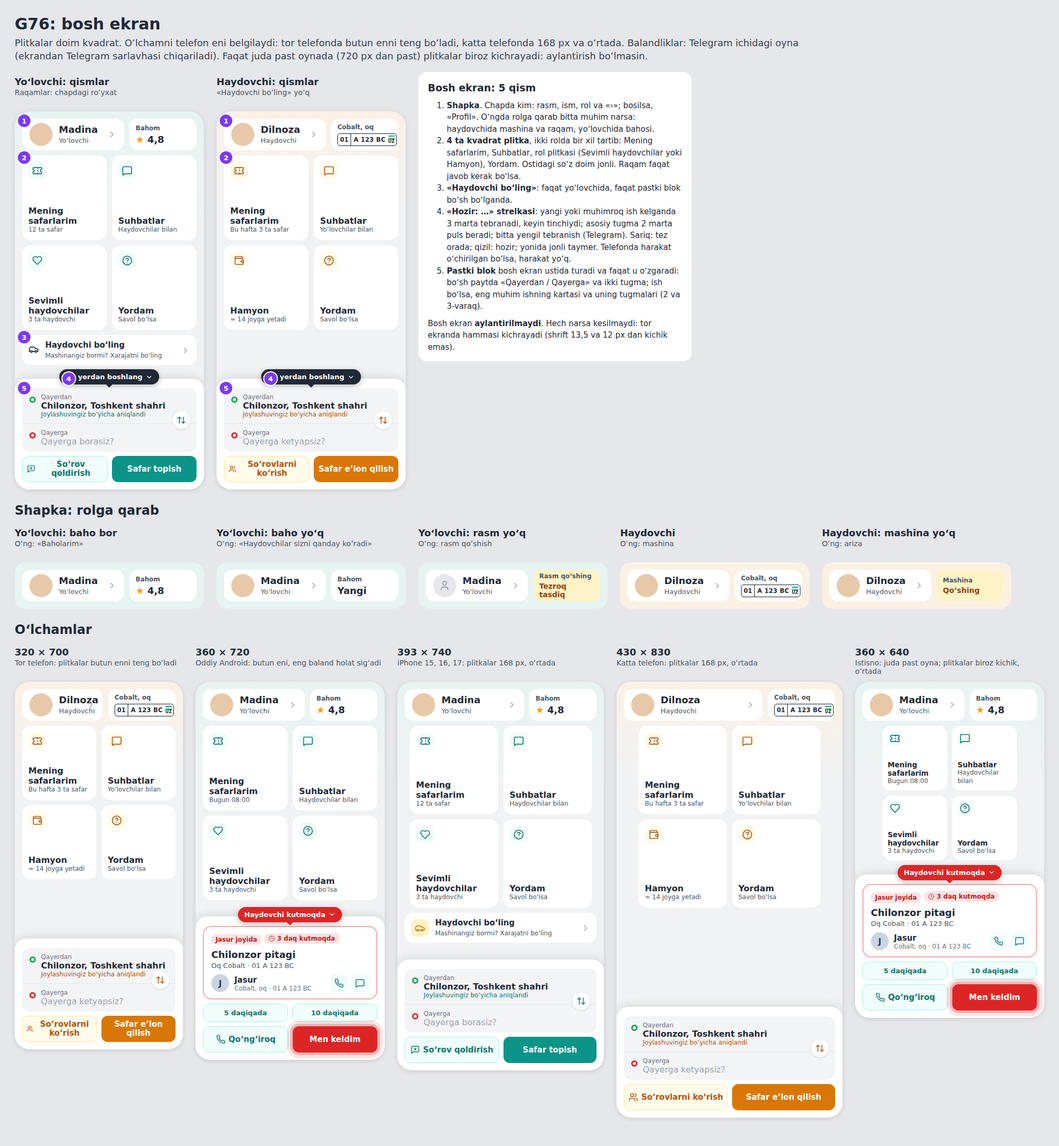
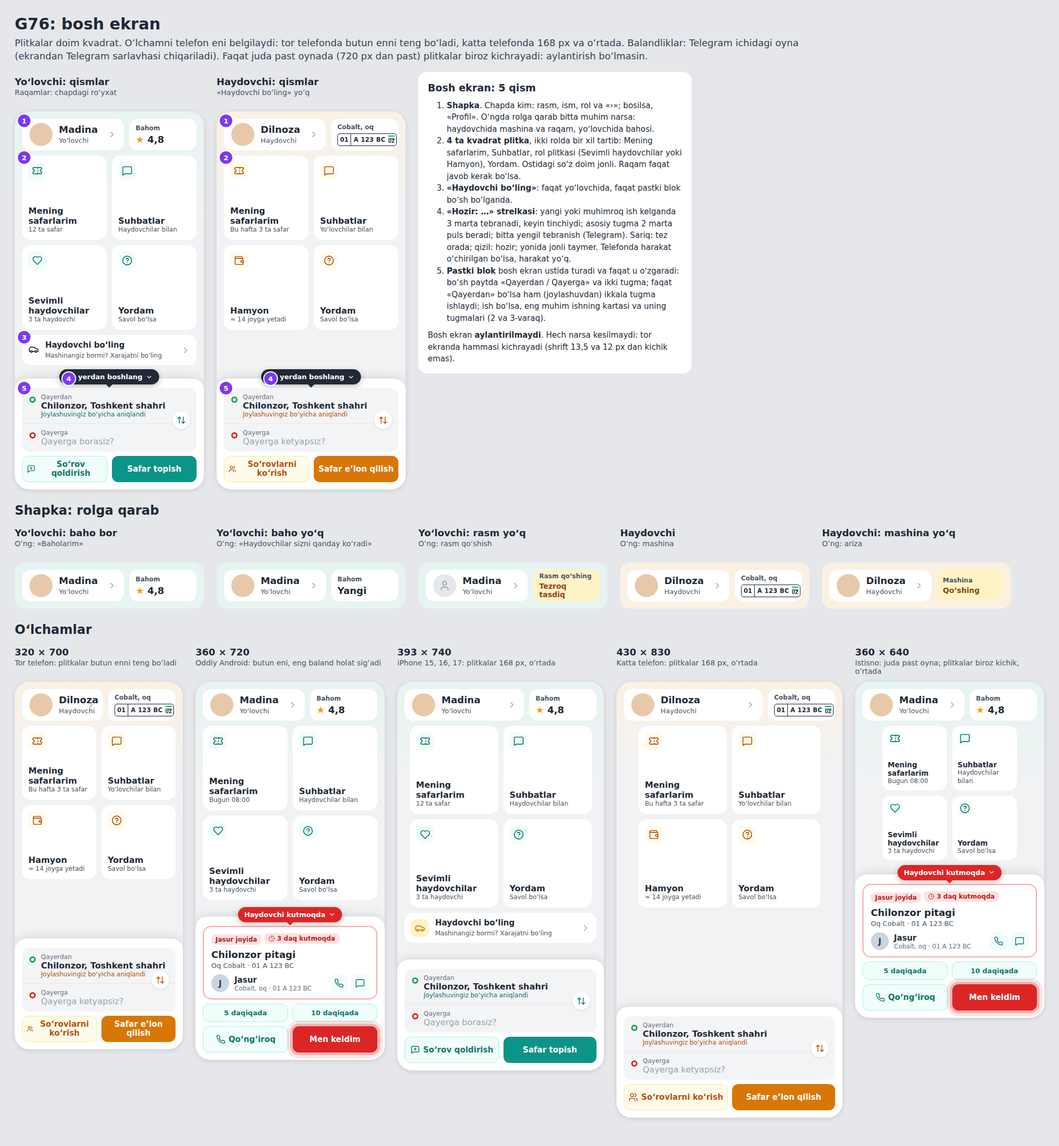
G76: mockups approved; the goal file; both dock buttons work with Qayerdan alone
Claude-Session: https://claude.ai/code/session_017FSsNw3bjZgBbKY1ueaesh

Changed region(s): [[0.4, 0.2493, 0.6462, 0.3428]]

diff --git a/docs/goals/g76/src/1-home.html b/docs/goals/g76/src/1-home.html
@@ -55,7 +55,7 @@ h1{font-size:30px}.sub{font-size:18px;color:#374151;margin:6px 0 18px;max-width:
 <li><b>4 ta kvadrat plitka</b>, ikki rolda bir xil tartib: Mening safarlarim, Suhbatlar, rol plitkasi (Sevimli haydovchilar yoki Hamyon), Yordam. Ostidagi soʻz doim jonli. Raqam faqat javob kerak boʻlsa.</li>
 <li><b>«Haydovchi boʻling»</b>: faqat yoʻlovchida, faqat pastki blok boʻsh boʻlganda.</li>
 <li><b>«Hozir: …» strelkasi</b>: yangi yoki muhimroq ish kelganda 3 marta tebranadi, keyin tinchiydi; asosiy tugma 2 marta puls beradi; bitta yengil tebranish (Telegram). Sariq: tez orada; qizil: hozir; yonida jonli taymer. Telefonda harakat oʻchirilgan boʻlsa, harakat yoʻq.</li>
-<li><b>Pastki blok</b> bosh ekran ustida turadi va faqat u oʻzgaradi: boʻsh paytda «Qayerdan / Qayerga» va ikki tugma; ish boʻlsa, eng muhim ishning kartasi va uning tugmalari (2 va 3-varaq).</li>
+<li><b>Pastki blok</b> bosh ekran ustida turadi va faqat u oʻzgaradi: boʻsh paytda «Qayerdan / Qayerga» va ikki tugma; faqat «Qayerdan» boʻlsa ham (joylashuvdan) ikkala tugma ishlaydi; ish boʻlsa, eng muhim ishning kartasi va uning tugmalari (2 va 3-varaq).</li>
 </ol><p style="margin-top:10px">Bosh ekran <b>aylantirilmaydi</b>. Hech narsa kesilmaydi: tor ekranda hammasi kichrayadi (shrift 13,5 va 12 px dan kichik emas).</p></div></div></div><h1 style="font-size:24px;margin:6px 0 10px">Shapka: rolga qarab</h1><div class="row" style="margin-bottom:26px"><div class="col" style="width:360px"><div class="lab">Yoʻlovchi: baho bor<small>Oʻng: «Baholarim»</small></div><div class="" style="width:360px;padding:14px;border-radius:20px;background:#E6F4F2"><div class="hd"><div class="me"><div class="face"></div><div style="min-width:0"><b>Madina</b><span>Yoʻlovchi</span></div><i class="chv"><svg width="18" height="18" viewBox="0 0 24 24" fill="none" stroke="currentColor" stroke-width="2" stroke-linecap="round" stroke-linejoin="round"><path d="m9 18 6-6-6-6"/></svg></i></div><div class="pc "><small>Bahom</small><b><span style="color:#F59E0B">★</span> 4,8</b></div></div></div></div><div class="col" style="width:360px"><div class="lab">Yoʻlovchi: baho yoʻq<small>Oʻng: «Haydovchilar sizni qanday koʻradi»</small></div><div class="" style="width:360px;padding:14px;border-radius:20px;background:#E6F4F2"><div class="hd"><div class="me"><div class="face"></div><div style="min-width:0"><b>Madina</b><span>Yoʻlovchi</span></div><i class="chv"><svg width="18" height="18" viewBox="0 0 24 24" fill="none" stroke="currentColor" stroke-width="2" stroke-linecap="round" stroke-linejoin="round"><path d="m9 18 6-6-6-6"/></svg></i></div><div class="pc "><small>Bahom</small><b>Yangi</b></div></div></div></div><div class="col" style="width:360px"><div class="lab">Yoʻlovchi: rasm yoʻq<small>Oʻng: rasm qoʻshish</small></div><div class="" style="width:360px;padding:14px;border-radius:20px;background:#E6F4F2"><div class="hd"><div class="me"><div class="face" style="background:#E5E7EB;display:flex;align-items:center;justify-content:center;color:#9CA3AF"><svg width="22" height="22" viewBox="0 0 24 24" fill="none" stroke="currentColor" stroke-width="2" stroke-linecap="round" stroke-linejoin="round"><path d="M19 21v-2a4 4 0 0 0-4-4H9a4 4 0 0 0-4 4v2"/><circle cx="12" cy="7" r="4"/></svg></div><div style="min-width:0"><b>Madina</b><span>Yoʻlovchi</span></div><i class="chv"><svg width="18" height="18" viewBox="0 0 24 24" fill="none" stroke="currentColor" stroke-width="2" stroke-linecap="round" stroke-linejoin="round"><path d="m9 18 6-6-6-6"/></svg></i></div><div class="pc warn"><small>Rasm qoʻshing</small><b>Tezroq tasdiq</b></div></div></div></div><div class="col" style="width:360px"><div class="lab">Haydovchi<small>Oʻng: mashina</small></div><div class="drv" style="width:360px;padding:14px;border-radius:20px;background:#FBF1E3"><div class="hd"><div class="me"><div class="face"></div><div style="min-width:0"><b>Dilnoza</b><span>Haydovchi</span></div><i class="chv"><svg width="18" height="18" viewBox="0 0 24 24" fill="none" stroke="currentColor" stroke-width="2" stroke-linecap="round" stroke-linejoin="round"><path d="m9 18 6-6-6-6"/></svg></i></div><div class="pc "><small>Cobalt, oq</small><b><span class="plate"><i>01</i><em>A 123 BC</em><u><s></s>UZ</u></span></b></div></div></div></div><div class="col" style="width:360px"><div class="lab">Haydovchi: mashina yoʻq<small>Oʻng: ariza</small></div><div class="drv" style="width:360px;padding:14px;border-radius:20px;background:#FBF1E3"><div class="hd"><div class="me"><div class="face"></div><div style="min-width:0"><b>Dilnoza</b><span>Haydovchi</span></div><i class="chv"><svg width="18" height="18" viewBox="0 0 24 24" fill="none" stroke="currentColor" stroke-width="2" stroke-linecap="round" stroke-linejoin="round"><path d="m9 18 6-6-6-6"/></svg></i></div><div class="pc warn"><small>Mashina</small><b>Qoʻshing</b></div></div></div></div></div><h1 style="font-size:24px;margin:6px 0 10px">Oʻlchamlar</h1><div class="row" style="margin-bottom:26px"><div class="col" style="width:320px"><div class="lab">320 × 700<small>Tor telefon: plitkalar butun enni teng boʻladi</small></div><div class="ph drv" style="width:320px;height:700px"><div class="top"><div class="hd"><div class="me"><div class="face"></div><div style="min-width:0"><b>Dilnoza</b><span>Haydovchi</span></div><i class="chv"><svg width="18" height="18" viewBox="0 0 24 24" fill="none" stroke="currentColor" stroke-width="2" stroke-linecap="round" stroke-linejoin="round"><path d="m9 18 6-6-6-6"/></svg></i></div><div class="pc "><small>Cobalt, oq</small><b><span class="plate"><i>01</i><em>A 123 BC</em><u><s></s>UZ</u></span></b></div></div><div class="tiles"><div class="tile "><i><svg width="20" height="20" viewBox="0 0 24 24" fill="none" stroke="currentColor" stroke-width="2" stroke-linecap="round" stroke-linejoin="round"><path d="M2 9a3 3 0 0 1 0 6v2a2 2 0 0 0 2 2h16a2 2 0 0 0 2-2v-2a3 3 0 0 1 0-6V7a2 2 0 0 0-2-2H4a2 2 0 0 0-2 2Z"/><path d="M13 5v2M13 17v2M13 11v2"/></svg></i><b>Mening safarlarim</b><span>Bu hafta 3 ta safar</span></div><div class="tile "><i><svg width="20" height="20" viewBox="0 0 24 24" fill="none" stroke="currentColor" stroke-width="2" stroke-linecap="round" stroke-linejoin="round"><path d="M22 17a2 2 0 0 1-2 2H6.8a2 2 0 0 0-1.4.6l-2.2 2.2A.7.7 0 0 1 2 21.3V5a2 2 0 0 1 2-2h16a2 2 0 0 1 2 2z"/></svg></i><b>Suhbatlar</b><span>Yoʻlovchilar bilan</span></div><div class="tile "><i><svg width="20" height="20" viewBox="0 0 24 24" fill="none" stroke="currentColor" stroke-width="2" stroke-linecap="round" stroke-linejoin="round"><path d="M19 7V4a1 1 0 0 0-1-1H5a2 2 0 0 0 0 4h15a1 1 0 0 1 1 1v4h-3a2 2 0 0 0 0 4h3a1 1 0 0 0 1-1v-2a1 1 0 0 0-1-1"/><path d="M3 5v14a2 2 0 0 0 2 2h15a1 1 0 0 0 1-1v-4"/></svg></i><b>Hamyon</b><span>≈ 14 joyga yetadi</span></div><div class="tile "><i><svg width="20" height="20" viewBox="0 0 24 24" fill="none" stroke="currentColor" stroke-width="2" stroke-linecap="round" stroke-linejoin="round"><circle cx="12" cy="12" r="10"/><path d="M9.1 9a3 3 0 0 1 5.8 1c0 2-3 3-3 3"/><path d="M12 17h.01"/></svg></i><b>Yordam</b><span>Savol boʻlsa</span></div></div></div><div class="dock"><div class="route"><div class="end"><span class="dot"></span><div><small>Qayerdan</small><b>Chilonzor, Toshkent shahri</b><em>Joylashuvingiz boʻyicha aniqlandi</em></div></div><div class="end"><span class="dot to"></span><div><small>Qayerga</small><b class="ph-t">Qayerga ketyapsiz?</b></div></div><div class="swap"><svg width="18" height="18" viewBox="0 0 24 24" fill="none" stroke="currentColor" stroke-width="2" stroke-linecap="round" stroke-linejoin="round"><path d="m21 16-4 4-4-4"/><path d="M17 20V4"/><path d="m3 8 4-4 4 4"/><path d="M7 4v16"/></svg></div></div><div class="btns"><div class="btn two"><svg width="18" height="18" viewBox="0 0 24 24" fill="none" stroke="currentColor" stroke-width="2" stroke-linecap="round" stroke-linejoin="round"><path d="M16 21v-2a4 4 0 0 0-4-4H6a4 4 0 0 0-4 4v2"/><circle cx="9" cy="7" r="4"/><path d="M22 21v-2a4 4 0 0 0-3-3.9"/><path d="M16 3.1a4 4 0 0 1 0 7.8"/></svg>Soʻrovlarni koʻrish</div><div class="btn ">Safar eʼlon qilish</div></div></div></div></div><div class="col" style="width:360px"><div class="lab">360 × 720<small>Oddiy Android: butun eni, eng baland holat sigʻadi</small></div><div class="ph " style="width:360px;height:720px"><div class="top"><div class="hd"><div class="me"><div class="face"></div><div style="min-width:0"><b>Madina</b><span>Yoʻlovchi</span></div><i class="chv"><svg width="18" height="18" viewBox="0 0 24 24" fill="none" stroke="currentColor" stroke-width="2" stroke-linecap="round" stroke-linejoin="round"><path d="m9 18 6-6-6-6"/></svg></i></div><div class="pc "><small>Bahom</small><b><span style="color:#F59E0B">★</span> 4,8</b></div></div><div class="tiles"><div class="tile "><i><svg width="20" height="20" viewBox="0 0 24 24" fill="none" stroke="currentColor" stroke-width="2" stroke-linecap="round" stroke-linejoin="round"><path d="M2 9a3 3 0 0 1 0 6v2a2 2 0 0 0 2 2h16a2 2 0 0 0 2-2v-2a3 3 0 0 1 0-6V7a2 2 0 0 0-2-2H4a2 2 0 0 0-2 2Z"/><path d="M13 5v2M13 17v2M13 11v2"/></svg></i><b>Mening safarlarim</b><span>Bugun 08:00</span></div><div class="tile "><i><svg width="20" height="20" viewBox="0 0 24 24" fill="none" stroke="currentColor" stroke-width="2" stroke-linecap="round" stroke-linejoin="round"><path d="M22 17a2 2 0 0 1-2 2H6.8a2 2 0 0 0-1.4.6l-2.2 2.2A.7.7 0 0 1 2 21.3V5a2 2 0 0 1 2-2h16a2 2 0 0 1 2 2z"/></svg></i><b>Suhbatlar</b><span>Haydovchilar bilan</span></div><div class="tile "><i><svg width="20" height="20" viewBox="0 0 24 24" fill="none" stroke="currentColor" stroke-width="2" stroke-linecap="round" stroke-linejoin="round"><path d="M19 14c1.49-1.46 3-3.21 3-5.5A5.5 5.5 0 0 0 16.5 3c-1.76 0-3 .5-4.5 2-1.5-1.5-2.74-2-4.5-2A5.5 5.5 0 0 0 2 8.5c0 2.3 1.5 4.05 3 5.5l7 7Z"/></svg></i><b>Sevimli haydovchilar</b><span>3 ta haydovchi</span></div><div class="tile "><i><svg width="20" height="20" viewBox="0 0 24 24" fill="none" stroke="currentColor" stroke-width="2" stroke-linecap="round" stroke-linejoin="round"><circle cx="12" cy="12" r="10"/><path d="M9.1 9a3 3 0 0 1 5.8 1c0 2-3 3-3 3"/><path d="M12 17h.01"/></svg></i><b>Yordam</b><span>Savol boʻlsa</span></div></div></div><div class="dock"><div class="cue u">Haydovchi kutmoqda <svg width="14" height="14" viewBox="0 0 24 24" fill="none" stroke="currentColor" stroke-width="2" stroke-linecap="round" stroke-linejoin="round"><path d="m6 9 6 6 6-6"/></svg></div><div class="card u"><span class="chip red">Jasur joyida</span><span class="timer u"><svg width="12" height="12" viewBox="0 0 24 24" fill="none" stroke="currentColor" stroke-width="2" stroke-linecap="round" stroke-linejoin="round"><circle cx="12" cy="12" r="10"/><path d="M12 6v6l4 2"/></svg>3 daq kutmoqda</span><h3>Chilonzor pitagi</h3><p>Oq Cobalt · 01 A 123 BC</p><div class="who"><div class="f">J</div><div><b>Jasur</b><span>Cobalt, oq · 01 A 123 BC</span></div><div class="mini"><i class=""><svg width="18" height="18" viewBox="0 0 24 24" fill="none" stroke="currentColor" stroke-width="2" stroke-linecap="round" stroke-linejoin="round"><path d="M22 16.9v3a2 2 0 0 1-2.2 2 19.8 19.8 0 0 1-8.6-3.1 19.5 19.5 0 0 1-6-6A19.8 19.8 0 0 1 2.1 4.2 2 2 0 0 1 4.1 2h3a2 2 0 0 1 2 1.7c.1 1 .4 1.9.7 2.8a2 2 0 0 1-.4 2.1L8.1 9.9a16 16 0 0 0 6 6l1.3-1.3a2 2 0 0 1 2.1-.4c.9.3 1.8.6 2.8.7a2 2 0 0 1 1.7 2z"/></svg></i><i class=""><svg width="18" height="18" viewBox="0 0 24 24" fill="none" stroke="currentColor" stroke-width="2" stroke-linecap="round" stroke-linejoin="round"><path d="M22 17a2 2 0 0 1-2 2H6.8a2 2 0 0 0-1.4.6l-2.2 2.2A.7.7 0 0 1 2 21.3V5a2 2 0 0 1 2-2h16a2 2 0 0 1 2 2z"/></svg></i></div></div></div><div class="qs"><span>5 daqiqada</span><span>10 daqiqada</span></div><div class="btns"><div class="btn two"><svg width="18" height="18" viewBox="0 0 24 24" fill="none" stroke="currentColor" stroke-width="2" stroke-linecap="round" stroke-linejoin="round"><path d="M22 16.9v3a2 2 0 0 1-2.2 2 19.8 19.8 0 0 1-8.6-3.1 19.5 19.5 0 0 1-6-6A19.8 19.8 0 0 1 2.1 4.2 2 2 0 0 1 4.1 2h3a2 2 0 0 1 2 1.7c.1 1 .4 1.9.7 2.8a2 2 0 0 1-.4 2.1L8.1 9.9a16 16 0 0 0 6 6l1.3-1.3a2 2 0 0 1 2.1-.4c.9.3 1.8.6 2.8.7a2 2 0 0 1 1.7 2z"/></svg>Qoʻngʻiroq</div><div class="btn pulse u red">Men keldim</div></div></div></div></div><div class="col" style="width:393px"><div class="lab">393 × 740<small>iPhone 15, 16, 17: plitkalar 168 px, oʻrtada</small></div><div class="ph " style="width:393px;height:740px"><div class="top"><div class="hd"><div class="me"><div class="face"></div><div style="min-width:0"><b>Madina</b><span>Yoʻlovchi</span></div><i class="chv"><svg width="18" height="18" viewBox="0 0 24 24" fill="none" stroke="currentColor" stroke-width="2" stroke-linecap="round" stroke-linejoin="round"><path d="m9 18 6-6-6-6"/></svg></i></div><div class="pc "><small>Bahom</small><b><span style="color:#F59E0B">★</span> 4,8</b></div></div><div class="tiles"><div class="tile "><i><svg width="20" height="20" viewBox="0 0 24 24" fill="none" stroke="currentColor" stroke-width="2" stroke-linecap="round" stroke-linejoin="round"><path d="M2 9a3 3 0 0 1 0 6v2a2 2 0 0 0 2 2h16a2 2 0 0 0 2-2v-2a3 3 0 0 1 0-6V7a2 2 0 0 0-2-2H4a2 2 0 0 0-2 2Z"/><path d="M13 5v2M13 17v2M13 11v2"/></svg></i><b>Mening safarlarim</b><span>12 ta safar</span></div><div class="tile "><i><svg width="20" height="20" viewBox="0 0 24 24" fill="none" stroke="currentColor" stroke-width="2" stroke-linecap="round" stroke-linejoin="round"><path d="M22 17a2 2 0 0 1-2 2H6.8a2 2 0 0 0-1.4.6l-2.2 2.2A.7.7 0 0 1 2 21.3V5a2 2 0 0 1 2-2h16a2 2 0 0 1 2 2z"/></svg></i><b>Suhbatlar</b><span>Haydovchilar bilan</span></div><div class="tile "><i><svg width="20" height="20" viewBox="0 0 24 24" fill="none" stroke="currentColor" stroke-width="2" stroke-linecap="round" stroke-linejoin="round"><path d="M19 14c1.49-1.46 3-3.21 3-5.5A5.5 5.5 0 0 0 16.5 3c-1.76 0-3 .5-4.5 2-1.5-1.5-2.74-2-4.5-2A5.5 5.5 0 0 0 2 8.5c0 2.3 1.5 4.05 3 5.5l7 7Z"/></svg></i><b>Sevimli haydovchilar</b><span>3 ta haydovchi</span></div><div class="tile "><i><svg width="20" height="20" viewBox="0 0 24 24" fill="none" stroke="currentColor" stroke-width="2" stroke-linecap="round" stroke-linejoin="round"><circle cx="12" cy="12" r="10"/><path d="M9.1 9a3 3 0 0 1 5.8 1c0 2-3 3-3 3"/><path d="M12 17h.01"/></svg></i><b>Yordam</b><span>Savol boʻlsa</span></div></div><div class="strip"><i><svg width="20" height="20" viewBox="0 0 24 24" fill="none" stroke="currentColor" stroke-width="2" stroke-linecap="round" stroke-linejoin="round"><path d="M19 17h2c.6 0 1-.4 1-1v-3c0-.9-.7-1.7-1.5-1.9C18.7 10.6 16 10 16 10s-1.3-1.4-2.2-2.3c-.5-.4-1.1-.7-1.8-.7H5c-.6 0-1.1.4-1.4.9l-1.4 2.9A3.7 3.7 0 0 0 2 12v4c0 .6.4 1 1 1h2"/><circle cx="7" cy="17" r="2"/><path d="M9 17h6"/><circle cx="17" cy="17" r="2"/></svg></i><div style="min-width:0"><b>Haydovchi boʻling</b><span>Mashinangiz bormi? Xarajatni boʻling</span></div><i class="chv"><svg width="18" height="18" viewBox="0 0 24 24" fill="none" stroke="currentColor" stroke-width="2" stroke-linecap="round" stroke-linejoin="round"><path d="m9 18 6-6-6-6"/></svg></i></div></div><div class="dock"><div class="route"><div class="end"><span class="dot"></span><div><small>Qayerdan</small><b>Chilonzor, Toshkent shahri</b><em>Joylashuvingiz boʻyicha aniqlandi</em></div></div><div class="end"><span class="dot to"></span><div><small>Qayerga</small><b class="ph-t">Qayerga borasiz?</b></div></div><div class="swap"><svg width="18" height="18" viewBox="0 0 24 24" fill="none" stroke="currentColor" stroke-width="2" stroke-linecap="round" stroke-linejoin="round"><path d="m21 16-4 4-4-4"/><path d="M17 20V4"/><path d="m3 8 4-4 4 4"/><path d="M7 4v16"/></svg></div></div><div class="btns"><div class="btn two"><svg width="18" height="18" viewBox="0 0 24 24" fill="none" stroke="currentColor" stroke-width="2" stroke-linecap="round" stroke-linejoin="round"><path d="M21 15a2 2 0 0 1-2 2H7l-4 4V5a2 2 0 0 1 2-2h14a2 2 0 0 1 2 2z"/><path d="M12 7v6M9 10h6"/></svg>Soʻrov qoldirish</div><div class="btn ">Safar topish</div></div></div></div></div><div class="col" style="width:430px"><div class="lab">430 × 830<small>Katta telefon: plitkalar 168 px, oʻrtada</small></div><div class="ph drv" style="width:430px;height:830px"><div class="top"><div class="hd"><div class="me"><div class="face"></div><div style="min-width:0"><b>Dilnoza</b><span>Haydovchi</span></div><i class="chv"><svg width="18" height="18" viewBox="0 0 24 24" fill="none" stroke="currentColor" stroke-width="2" stroke-linecap="round" stroke-linejoin="round"><path d="m9 18 6-6-6-6"/></svg></i></div><div class="pc "><small>Cobalt, oq</small><b><span class="plate"><i>01</i><em>A 123 BC</em><u><s></s>UZ</u></span></b></div></div><div class="tiles"><div class="tile "><i><svg width="20" height="20" viewBox="0 0 24 24" fill="none" stroke="currentColor" stroke-width="2" stroke-linecap="round" stroke-linejoin="round"><path d="M2 9a3 3 0 0 1 0 6v2a2 2 0 0 0 2 2h16a2 2 0 0 0 2-2v-2a3 3 0 0 1 0-6V7a2 2 0 0 0-2-2H4a2 2 0 0 0-2 2Z"/><path d="M13 5v2M13 17v2M13 11v2"/></svg></i><b>Mening safarlarim</b><span>Bu hafta 3 ta safar</span></div><div class="tile "><i><svg width="20" height="20" viewBox="0 0 24 24" fill="none" stroke="currentColor" stroke-width="2" stroke-linecap="round" stroke-linejoin="round"><path d="M22 17a2 2 0 0 1-2 2H6.8a2 2 0 0 0-1.4.6l-2.2 2.2A.7.7 0 0 1 2 21.3V5a2 2 0 0 1 2-2h16a2 2 0 0 1 2 2z"/></svg></i><b>Suhbatlar</b><span>Yoʻlovchilar bilan</span></div><div class="tile "><i><svg width="20" height="20" viewBox="0 0 24 24" fill="none" stroke="currentColor" stroke-width="2" stroke-linecap="round" stroke-linejoin="round"><path d="M19 7V4a1 1 0 0 0-1-1H5a2 2 0 0 0 0 4h15a1 1 0 0 1 1 1v4h-3a2 2 0 0 0 0 4h3a1 1 0 0 0 1-1v-2a1 1 0 0 0-1-1"/><path d="M3 5v14a2 2 0 0 0 2 2h15a1 1 0 0 0 1-1v-4"/></svg></i><b>Hamyon</b><span>≈ 14 joyga yetadi</span></div><div class="tile "><i><svg width="20" height="20" viewBox="0 0 24 24" fill="none" stroke="currentColor" stroke-width="2" stroke-linecap="round" stroke-linejoin="round"><circle cx="12" cy="12" r="10"/><path d="M9.1 9a3 3 0 0 1 5.8 1c0 2-3 3-3 3"/><path d="M12 17h.01"/></svg></i><b>Yordam</b><span>Savol boʻlsa</span></div></div></div><div class="dock"><div class="route"><div class="end"><span class="dot"></span><div><small>Qayerdan</small><b>Chilonzor, Toshkent shahri</b><em>Joylashuvingiz boʻyicha aniqlandi</em></div></div><div class="end"><span class="dot to"></span><div><small>Qayerga</small><b class="ph-t">Qayerga ketyapsiz?</b></div></div><div class="swap"><svg width="18" height="18" viewBox="0 0 24 24" fill="none" stroke="currentColor" stroke-width="2" stroke-linecap="round" stroke-linejoin="round"><path d="m21 16-4 4-4-4"/><path d="M17 20V4"/><path d="m3 8 4-4 4 4"/><path d="M7 4v16"/></svg></div></div><div class="btns"><div class="btn two"><svg width="18" height="18" viewBox="0 0 24 24" fill="none" stroke="currentColor" stroke-width="2" stroke-linecap="round" stroke-linejoin="round"><path d="M16 21v-2a4 4 0 0 0-4-4H6a4 4 0 0 0-4 4v2"/><circle cx="9" cy="7" r="4"/><path d="M22 21v-2a4 4 0 0 0-3-3.9"/><path d="M16 3.1a4 4 0 0 1 0 7.8"/></svg>Soʻrovlarni koʻrish</div><div class="btn ">Safar eʼlon qilish</div></div></div></div></div><div class="col" style="width:360px"><div class="lab">360 × 640<small>Istisno: juda past oyna; plitkalar biroz kichik, oʻrtada</small></div><div class="ph " style="width:360px;height:640px"><div class="top"><div class="hd"><div class="me"><div class="face"></div><div style="min-width:0"><b>Madina</b><span>Yoʻlovchi</span></div><i class="chv"><svg width="18" height="18" viewBox="0 0 24 24" fill="none" stroke="currentColor" stroke-width="2" stroke-linecap="round" stroke-linejoin="round"><path d="m9 18 6-6-6-6"/></svg></i></div><div class="pc "><small>Bahom</small><b><span style="color:#F59E0B">★</span> 4,8</b></div></div><div class="tiles"><div class="tile "><i><svg width="20" height="20" viewBox="0 0 24 24" fill="none" stroke="currentColor" stroke-width="2" stroke-linecap="round" stroke-linejoin="round"><path d="M2 9a3 3 0 0 1 0 6v2a2 2 0 0 0 2 2h16a2 2 0 0 0 2-2v-2a3 3 0 0 1 0-6V7a2 2 0 0 0-2-2H4a2 2 0 0 0-2 2Z"/><path d="M13 5v2M13 17v2M13 11v2"/></svg></i><b>Mening safarlarim</b><span>Bugun 08:00</span></div><div class="tile "><i><svg width="20" height="20" viewBox="0 0 24 24" fill="none" stroke="currentColor" stroke-width="2" stroke-linecap="round" stroke-linejoin="round"><path d="M22 17a2 2 0 0 1-2 2H6.8a2 2 0 0 0-1.4.6l-2.2 2.2A.7.7 0 0 1 2 21.3V5a2 2 0 0 1 2-2h16a2 2 0 0 1 2 2z"/></svg></i><b>Suhbatlar</b><span>Haydovchilar bilan</span></div><div class="tile "><i><svg width="20" height="20" viewBox="0 0 24 24" fill="none" stroke="currentColor" stroke-width="2" stroke-linecap="round" stroke-linejoin="round"><path d="M19 14c1.49-1.46 3-3.21 3-5.5A5.5 5.5 0 0 0 16.5 3c-1.76 0-3 .5-4.5 2-1.5-1.5-2.74-2-4.5-2A5.5 5.5 0 0 0 2 8.5c0 2.3 1.5 4.05 3 5.5l7 7Z"/></svg></i><b>Sevimli haydovchilar</b><span>3 ta haydovchi</span></div><div class="tile "><i><svg width="20" height="20" viewBox="0 0 24 24" fill="none" stroke="currentColor" stroke-width="2" stroke-linecap="round" stroke-linejoin="round"><circle cx="12" cy="12" r="10"/><path d="M9.1 9a3 3 0 0 1 5.8 1c0 2-3 3-3 3"/><path d="M12 17h.01"/></svg></i><b>Yordam</b><span>Savol boʻlsa</span></div></div></div><div class="dock"><div class="cue u">Haydovchi kutmoqda <svg width="14" height="14" viewBox="0 0 24 24" fill="none" stroke="currentColor" stroke-width="2" stroke-linecap="round" stroke-linejoin="round"><path d="m6 9 6 6 6-6"/></svg></div><div class="card u"><span class="chip red">Jasur joyida</span><span class="timer u"><svg width="12" height="12" viewBox="0 0 24 24" fill="none" stroke="currentColor" stroke-width="2" stroke-linecap="round" stroke-linejoin="round"><circle cx="12" cy="12" r="10"/><path d="M12 6v6l4 2"/></svg>3 daq kutmoqda</span><h3>Chilonzor pitagi</h3><p>Oq Cobalt · 01 A 123 BC</p><div class="who"><div class="f">J</div><div><b>Jasur</b><span>Cobalt, oq · 01 A 123 BC</span></div><div class="mini"><i class=""><svg width="18" height="18" viewBox="0 0 24 24" fill="none" stroke="currentColor" stroke-width="2" stroke-linecap="round" stroke-linejoin="round"><path d="M22 16.9v3a2 2 0 0 1-2.2 2 19.8 19.8 0 0 1-8.6-3.1 19.5 19.5 0 0 1-6-6A19.8 19.8 0 0 1 2.1 4.2 2 2 0 0 1 4.1 2h3a2 2 0 0 1 2 1.7c.1 1 .4 1.9.7 2.8a2 2 0 0 1-.4 2.1L8.1 9.9a16 16 0 0 0 6 6l1.3-1.3a2 2 0 0 1 2.1-.4c.9.3 1.8.6 2.8.7a2 2 0 0 1 1.7 2z"/></svg></i><i class=""><svg width="18" height="18" viewBox="0 0 24 24" fill="none" stroke="currentColor" stroke-width="2" stroke-linecap="round" stroke-linejoin="round"><path d="M22 17a2 2 0 0 1-2 2H6.8a2 2 0 0 0-1.4.6l-2.2 2.2A.7.7 0 0 1 2 21.3V5a2 2 0 0 1 2-2h16a2 2 0 0 1 2 2z"/></svg></i></div></div></div><div class="qs"><span>5 daqiqada</span><span>10 daqiqada</span></div><div class="btns"><div class="btn two"><svg width="18" height="18" viewBox="0 0 24 24" fill="none" stroke="currentColor" stroke-width="2" stroke-linecap="round" stroke-linejoin="round"><path d="M22 16.9v3a2 2 0 0 1-2.2 2 19.8 19.8 0 0 1-8.6-3.1 19.5 19.5 0 0 1-6-6A19.8 19.8 0 0 1 2.1 4.2 2 2 0 0 1 4.1 2h3a2 2 0 0 1 2 1.7c.1 1 .4 1.9.7 2.8a2 2 0 0 1-.4 2.1L8.1 9.9a16 16 0 0 0 6 6l1.3-1.3a2 2 0 0 1 2.1-.4c.9.3 1.8.6 2.8.7a2 2 0 0 1 1.7 2z"/></svg>Qoʻngʻiroq</div><div class="btn pulse u red">Men keldim</div></div></div></div></div></div><script>
 const R=JSON.parse(document.body.dataset.reserve||'{}');const groups={};
 const all=[...document.querySelectorAll('.ph')];

diff --git a/docs/goals/G76-home-dock.md b/docs/goals/G76-home-dock.md
@@ -1,0 +1,63 @@
+# G76. Главный экран: нижний блок, шапка, плитки
+
+> **Кратко:** решение владельца 10.10.2026: главный экран попутчика и водителя заново по утверждённым макетам `goals/g76` (утверждены 10.10.2026). Нижний блок поверх экрана показывает самое важное дело (15 и 16 состояний), шапка из двух частей, 4 квадратные плитки, шторки по правилу «нижний блок зовёт, шторка отвечает». Основа: `../165`, `../164`, тексты `../166`. Оценка около 7,5 часа.
+
+```text
+G76. Главный экран: нижний блок, шапка, плитки (docs/165)
+
+Ветка goal/g76-home-dock (макеты уже в ней); PR частями.
+
+Definition of Done
+
+[ ] Шапка из двух частей: слева «Profil» со стрелкой; справа
+    водитель: машина и номер (UzPlate s), нет машины: «Mashina ·
+    Qoʻshing»; попутчик: «Bahom ★», «Yangi», нет фото: «Rasm
+    qoʻshing · Tezroq tasdiq». Одна высота 60 px.
+[ ] 4 плитки в одном порядке: Mening safarlarim, Suhbatlar,
+    Sevimli haydovchilar или Hamyon, Yordam. Всегда квадрат;
+    узкий телефон: вся ширина поровну; большой: 168 px по
+    центру; очень низкое окно: меньше и по центру. Живые
+    короткие подписи; цифра только когда нужен ответ; Hamyon
+    жёлтая и красная. «Oxirgi yoʻnalish», «Qaytish» и «Profil»
+    уходят с плиток; «Sevimli haydovchilar» уходит из
+    «Mening safarlarim».
+[ ] «Haydovchi boʻling» полосой: только попутчик, только при
+    пустом нижнем блоке.
+[ ] Нижний блок поверх экрана, без прокрутки: свободен: маршрут
+    и две кнопки (обе работают при одном «Qayerdan», таблица
+    ../165); иначе карточка самого важного дела: 15 состояний
+    попутчика, 16 водителя, 10 уровней важности; остальное
+    цифрой на плитке. Часы идут: карточка меняется сама.
+[ ] Внимание: «Hozir: …» на краю блока (3 качания), пульс
+    кнопки, вибрация Telegram, жёлтый и красный, живой таймер;
+    только при новом или более важном деле; без движения при
+    выключенной анимации в телефоне.
+[ ] Шторки (../164): сама встаёт только звонок; заявка,
+    предложение, сообщение открываются из блока или ссылки бота;
+    шторки встречи, ответа, «Yetib keldingizmi?» и любимого
+    водителя удалены вместе с тестами; быстрые ответы
+    «5 daqiqada», «10 daqiqada» в блоке; «Keyinroq» оставляет
+    дело в блоке; блок всегда под шторкой.
+[ ] Мёртвый код удалён (nextTrips, lastTrip и старые карточки
+    главного); knip чист.
+[ ] Тексты по ключам ../166, старые ключи где слова те же;
+    проверка носителем.
+[ ] Тест на каждое состояние и правило, сначала падает; снимки
+    на 320, 360, 393, 430 и низкое окно: нет обрезки, нет
+    прокрутки, плитки квадратные; блок со всеми шторками
+    (урок №199).
+[ ] Pixel Perfect с goals/g76/src (урок №147); docs 165, 164,
+    122, 155, 118 обновлены; стенд кусками, полный один раз;
+    PR, слияние, деплой; владелец проверил на телефоне.
+
+Цель выполнена, когда всё вместе:
+1. Все пункты выше отмечены [x].
+2. Ветка слита в main без конфликтов, CI зелёный, деплой прошёл.
+3. Владелец написал «проверил».
+4. goals/INDEX: G76 ✅; ветка удалена.
+```
+
+## Проверка владельцем
+
+- Макеты, плитки, шапка, тексты: утверждены 10.10.2026.
+- После кода: владелец смотрит главный экран обеих ролей на своём телефоне.

diff --git a/docs/goals/INDEX.md b/docs/goals/INDEX.md
@@ -88,6 +88,7 @@
 | 62 | [G67. Админка заново](G67-admin.md) | 17 … 18 | ✅ Сделана в G75 (PR #194, 10.10.2026; `../120`, `../162`); владелец проверил 10.10.2026 |
 | 63 | [G68. Сообщения ботов и каналов](G68-bot-messages.md) | 17 … 18 | ✅ Выполнена 10.10.2026 (PR #186 … #191, `../122`); проверено на телефоне (боты 09.10, шторка 10.10.2026); проверка на настоящем канале в OPS-02, шторка 4,1 … 7,9 % принята как есть (решения владельца 09.10.2026) |
 | 63а | [G75. Редизайн до конца: все экраны и дыры](G75-redesign-rest.md) | 17 … 18 | ✅ Сделана 10.10.2026: PR #194 … #200, все дыры `../158` и экраны `../159`, сверка `../162`, `../163`; владелец проверил на телефоне 10.10.2026 |
+| 63б | [G76. Главный экран: нижний блок, шапка, плитки](G76-home-dock.md) | 17 … 18 | Не начата: макеты утверждены владельцем 10.10.2026 (`../165`, `../164`, `../166`) |
 | 64 | [G69. Петли роста](G69-growth-loops.md) | 17 … 18 | Не начата: план 06.10.2026 (`../123`) |
 | 65 | [G70. Инструкции и подсказки по шагу](G70-tutorials-and-tips.md) | 17 … 18 | Не начата: план владельца 06.10.2026 (`../123`) |
 | 66 | [G49. Тесты и стенд: сценарии без проверки](G49-tests-and-stand.md) | 17 … 18 | Не начата: предложение Claude по аудиту 04.10.2026 (`../111`) |
@@ -102,7 +103,7 @@
 | 75 | [OPS-04. Бета-тест](OPS-04-beta-test.md) | 16 | Владелец; ошибки бета-теста исправляет Claude |
 | 76 | [OPS-05. Операции запуска](OPS-05-launch-ops.md) | 18 | Владелец: ключи, порог Workers, проверка в проде, запуск |
 
-Номер G18 добавлен 27.09, G19 … G24 добавлены 30.09, G25 … G27 добавлены 01.10, G28 … G34 добавлены 02.10, G35 … G41 добавлены 03.10, G42 … G51 добавлены 04.10 по аудиту `../111`, G52 добавлена 04.10 по разбору ошибок `../112`, G53 добавлена 04.10 по выбору макетов `../114`, G54 добавлена 04.10 по решению владельца о звуках `../115`, G55 добавлена 05.10 по решению владельца об источниках `../116`, G56 добавлена 05.10 по аудиту бесплатного тарифа `../117`, G57 добавлена 05.10 по решениям владельца о карте и историях `../117`, G58 … G70 добавлены 06.10 по пересмотру экранов `../118`, `../120`, G73 и G74 добавлены 07.10 по решениям владельца (шрифт, предложение в чате), G75 добавлена 10.10 по сверке редизайна `../158`, `../159` (запуск 01.02.2027). Порядок: по таблице.
+Номер G18 добавлен 27.09, G19 … G24 добавлены 30.09, G25 … G27 добавлены 01.10, G28 … G34 добавлены 02.10, G35 … G41 добавлены 03.10, G42 … G51 добавлены 04.10 по аудиту `../111`, G52 добавлена 04.10 по разбору ошибок `../112`, G53 добавлена 04.10 по выбору макетов `../114`, G54 добавлена 04.10 по решению владельца о звуках `../115`, G55 добавлена 05.10 по решению владельца об источниках `../116`, G56 добавлена 05.10 по аудиту бесплатного тарифа `../117`, G57 добавлена 05.10 по решениям владельца о карте и историях `../117`, G58 … G70 добавлены 06.10 по пересмотру экранов `../118`, `../120`, G73 и G74 добавлены 07.10 по решениям владельца (шрифт, предложение в чате), G75 добавлена 10.10 по сверке редизайна `../158`, `../159`, G76 добавлена 10.10 по решению владельца о главном экране `../165` (запуск 01.02.2027). Порядок: по таблице.
 
 **После запуска** (решение владельца 27.09):
 

diff --git a/docs/165-g76-home.md b/docs/165-g76-home.md
@@ -1,6 +1,6 @@
 # 165. G76: главный экран (финальные макеты)
 
-> **Кратко:** главный экран попутчика и водителя без прокрутки, из 5 частей: шапка из двух частей, 4 квадратные плитки, «Haydovchi boʻling» (попутчик, когда свободен), стрелка «Hozir: …» и нижний блок поверх экрана. Меняется только нижний блок: 15 состояний попутчика, 16 водителя, 10 уровней важности. Шторки: `164`. Тексты: `166`. Все решения владельца 10.10.2026. Статус: **макеты на утверждение владельца**.
+> **Кратко:** главный экран попутчика и водителя без прокрутки, из 5 частей: шапка из двух частей, 4 квадратные плитки, «Haydovchi boʻling» (попутчик, когда свободен), стрелка «Hozir: …» и нижний блок поверх экрана. Меняется только нижний блок: 15 состояний попутчика, 16 водителя, 10 уровней важности. Шторки: `164`. Тексты: `166`. Все решения владельца 10.10.2026. Статус: **макеты утверждены владельцем 10.10.2026**; цель `goals/G76-home-dock.md`.
 
 ## Листы
 
@@ -22,6 +22,21 @@
 | 3 | «Haydovchi boʻling» | Широкая полоса под плитками; только попутчик, только когда нижний блок пустой (маршрут и две кнопки); всегда в «Profil» |
 | 4 | «Hozir: …» | Над нижним блоком; 3 качания при новом или более важном деле, потом покой; главная кнопка 2 пульса; одна вибрация Telegram; жёлтый: скоро, красный: сейчас, живой таймер; без движения, если в телефоне выключена анимация |
 | 5 | Нижний блок | Поверх экрана. Свободен: «Qayerdan / Qayerga» и две кнопки (попутчик «Soʻrov qoldirish», «Safar topish»; водитель «Soʻrovlarni koʻrish», «Safar eʼlon qilish»); дело: карточка самого важного дела и её кнопки |
+
+## Кнопки, когда указано только «Qayerdan» (решение владельца 10.10.2026)
+
+Хватает одного конца маршрута: «Qayerdan» сам по геолокации или выбран человеком. «Qayerga» не нужен, обе кнопки работают.
+
+| Кнопка | Что открывает |
+|---|---|
+| «Safar topish» | «Qayerga borasiz?»: направления из этого места карточками с поездками (`find/directions-screen.tsx`, `118` путь 2) |
+| «Soʻrov qoldirish» | Заявка: «Qayerdan» уже стоит, первый шаг «Qayerga» |
+| «Safar eʼlon qilish» | Публикация: «Qayerdan» уже стоит, первое поле «Qayerga» |
+| «Soʻrovlarni koʻrish» | Заявки попутчиков из этого места во все стороны (доска с одним `from`) |
+
+- Указаны оба конца: сразу поездки, заявки или форма этого маршрута.
+- Не указано ничего (геолокации нет): кнопка сначала просит «Qayerdan», одним шагом.
+- Кнопки серые только у водителя, пока заявка на проверке (состояние 2).
 
 ## Плитки
 
